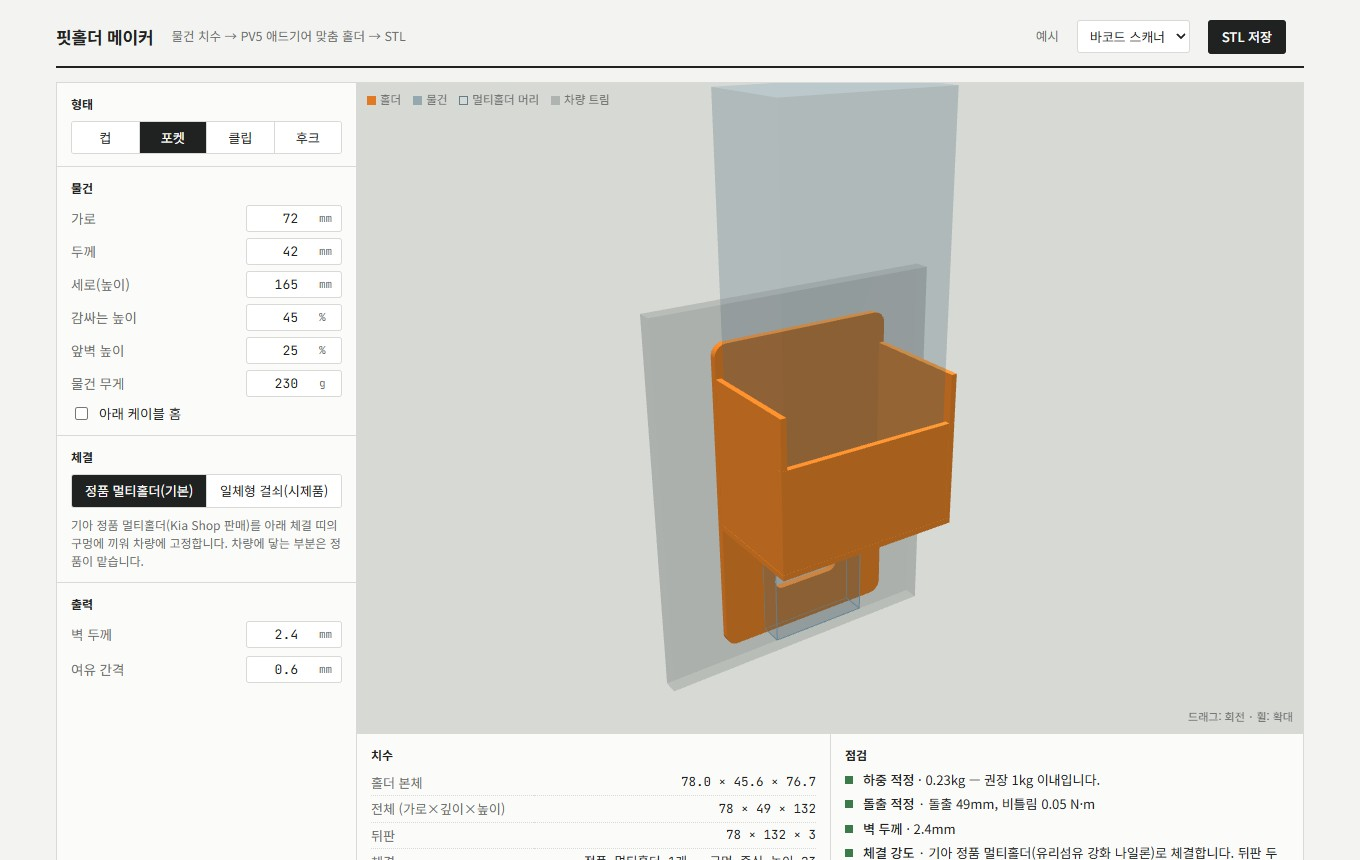
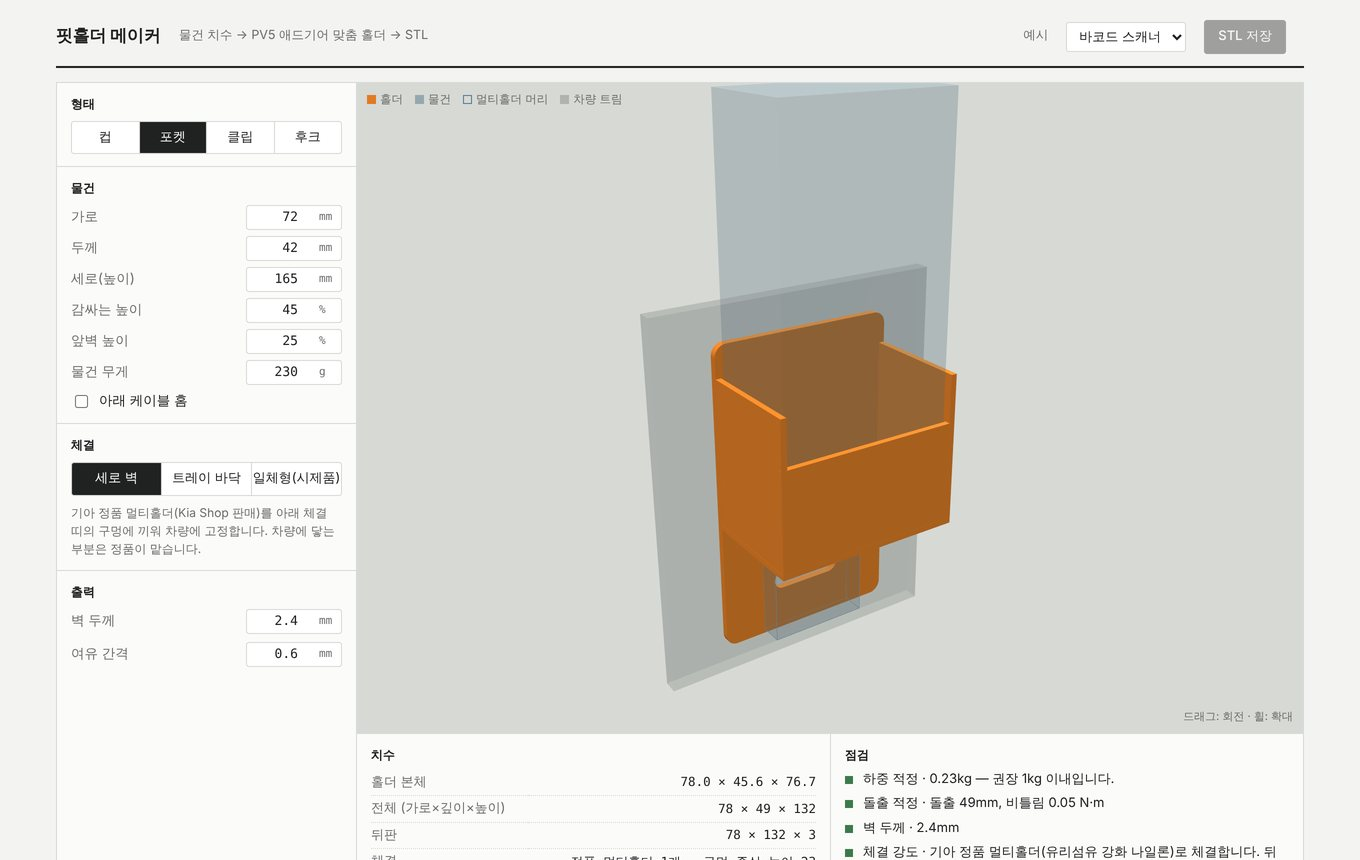
[Claude] 핏홀더 페이지: 출력물 사진 빼고 웹 도구 화면으로 교체, 기아 최종 PT 발표 사진 반영
- 대표 사진·첫 화면 카드: 최종 PT 발표 뒷모습(심사위원 보이지 않게 자름, 위치정보 제거)
- 01 네 가지 형태, 02 설계 화면, 03 점검 화면(PROTOTYPE→CHECK), 04 PT 사진
- 시제품 문구 정리, 출력물 사진 3장 삭제

Claude-Session: https://claude.ai/code/session_01TGcnNbjQXwFwAygziGWGg4

diff --git a/fitholder/index.html b/fitholder/index.html
@@ -4,7 +4,7 @@
 <meta charset="utf-8">
 <meta name="viewport" content="width=device-width, initial-scale=1, viewport-fit=cover">
 <title>핏홀더 차량용 맞춤 홀더 · Work · RECOV LAB</title>
-<meta name="description" content="물건 치수만 넣으면 차량용 맞춤 홀더가 설계되는 웹 도구와 3D 프린팅 시제품. 제5회 기아 PBV 아이디어 공모전 최종 PT.">
+<meta name="description" content="물건 치수만 넣으면 차량용 맞춤 홀더가 설계되는 웹 도구 「핏홀더 메이커」. 제5회 기아 PBV 아이디어 공모전 최종 PT.">
 <meta name="theme-color" content="#0B0B0B">
 <meta property="og:type" content="article">
 <meta property="og:title" content="핏홀더 차량용 맞춤 홀더 · RECOV LAB">
@@ -37,8 +37,8 @@
 <section class="hero detail-hero" aria-label="대표 이미지">
   <div class="slide on">
     <picture>
-      <source media="(min-width: 900px)" srcset="../img/hero_fit_d.jpg?v=1">
-      <img src="../img/hero_fit_m.jpg?v=1" alt="3D 프린팅으로 만든 흰색 차량용 맞춤 홀더 시제품들" width="1200" height="1600">
+      <source media="(min-width: 900px)" srcset="../img/hero_fit_d.jpg?v=2">
+      <img style="object-position:50% 20%" src="../img/hero_fit_m.jpg?v=2" alt="기아 PBV 아이디어 공모전 최종 PT에서 핏홀더를 발표하는 뒷모습" width="1200" height="1600">
     </picture>
   </div>
 </section>
@@ -52,15 +52,15 @@
       <p class="sub">핏홀더 · 차량용 맞춤 홀더 설계 도구</p>
     </div>
     <div class="body">
-      <p class="lead">업무용 차 안에는 업종마다 다른 물건이 실립니다. 물건의 치수와 무게만 넣으면 그 물건에 꼭 맞는 홀더가 설계되고, 바로 3D 프린팅할 수 있는 파일이 나오는 웹 도구 「핏홀더 메이커」와 시제품을 만들었습니다. 제5회 기아 PBV 아이디어 공모전에서 최종 PT까지 올랐습니다.</p>
+      <p class="lead">업무용 차 안에는 업종마다 다른 물건이 실립니다. 물건의 치수와 무게만 넣으면 그 물건에 꼭 맞는 홀더가 설계되고, 바로 3D 프린팅할 수 있는 파일이 나오는 웹 도구 「핏홀더 메이커」를 만들었습니다. 제5회 기아 PBV 아이디어 공모전에서 최종 PT까지 올랐습니다.</p>
       <dl class="specs" aria-label="작업 정보">
-        <div><dt>구성</dt><dd>웹 설계 도구 + 3D 프린팅 홀더</dd></div>
+        <div><dt>구성</dt><dd>웹 설계 도구 (브라우저에서 바로 실행)</dd></div>
         <div><dt>형태</dt><dd>컵 · 포켓 · 클립 · 후크 4종</dd></div>
-        <div><dt>체결</dt><dd>차량 정품 멀티홀더에 결합</dd></div>
+        <div><dt>체결</dt><dd>세로 벽 · 트레이 바닥 · 정품 멀티홀더 결합</dd></div>
         <div><dt>점검</dt><dd>하중(권장 1 kg) · 쏠림 · 벽 두께 자동 점검</dd></div>
-        <div><dt>출력</dt><dd>포켓형 한 개 2시간 23분 · 60 g</dd></div>
+        <div><dt>결과물</dt><dd>한 덩어리 STL + 설정 파일 내려받기</dd></div>
         <div><dt>공모</dt><dd>제5회 기아 PBV 아이디어 공모전 애프터마켓 부문 최종 PT (본선 32팀, 경쟁률 약 38:1)</dd></div>
-        <div><dt>상태</dt><dd>웹 도구 v1 · 시제품</dd></div>
+        <div><dt>상태</dt><dd>웹 도구 v1</dd></div>
       </dl>
     </div>
   </section>
@@ -72,7 +72,7 @@
         <h2>물건마다 자리가 다르다</h2>
         <p>택배, 이동 정비, 푸드트럭, 방문 돌봄처럼 업종마다 차 안에 두는 물건이 다릅니다. 차에 장착 규격은 공개돼 있어도, 체결 공차와 하중을 따져 홀더를 설계하는 일은 일반 사용자에게 어렵습니다. 기성품은 컵홀더처럼 누구나 쓰는 물건에 맞춰져 있습니다.</p>
       </div>
-      <div class="pic"><img src="../img/fit_parts.jpg?v=1" alt="출력한 홀더 부품들을 책상 위에 펼쳐 놓은 모습" width="1400" height="1050" loading="lazy"></div>
+      <div class="pic"><img src="../img/fit_types.jpg?v=2" alt="핏홀더 메이커가 설계한 컵·포켓·클립·후크 네 가지 홀더 3D 화면" width="1408" height="1058" loading="lazy"></div>
     </article>
 
     <article class="step">
@@ -81,28 +81,25 @@
         <h2>치수만 넣으면 설계된다</h2>
         <p>물건의 가로·세로·높이와 무게를 넣으면 컵·포켓·클립·후크 가운데 맞는 형태가 바로 설계됩니다. 하중과 쏠림, 벽 두께를 자동으로 점검하고, 출력할 수 있는 한 덩어리 STL 파일로 내보냅니다. 차에 닿는 체결은 정품 멀티홀더가 맡아, 차량 쪽 체결부를 따라 만들지 않습니다.</p>
       </div>
-      <div class="pic"><img src="../img/fit_tool.jpg?v=1" alt="치수를 입력하면 홀더 3D 모델이 바로 바뀌는 핏홀더 메이커 화면" width="1360" height="860" loading="lazy"></div>
+      <div class="pic"><img src="../img/fit_tool.jpg?v=2" alt="치수를 입력하면 홀더 3D 모델이 바로 바뀌는 핏홀더 메이커 화면" width="1360" height="860" loading="lazy"></div>
     </article>
 
     <article class="step">
       <div class="text">
-        <span class="no cond">03 — PROTOTYPE</span>
-        <h2>출력하고 끼워 보다</h2>
-        <p>바닥 트레이에 얹는 형과 세로 벽에 거는 형, 두 가지로 시제품을 출력했습니다. 장착 규격대로 만든 시험 슬롯에 끼워 보며 끼움새를 고쳤습니다.</p>
+        <span class="no cond">03 — CHECK</span>
+        <h2>출력하기 전에 점검한다</h2>
+        <p>설계가 바뀔 때마다 하중이 권장 1 kg 안인지, 물건이 쏠려 홀더가 비틀리지 않는지, 벽 두께가 충분한지를 화면에서 바로 알려 줍니다. 세로 벽에 거는 형과 트레이 바닥에 얹는 형을 고를 수 있어, 같은 물건도 차 안 자리에 맞춰 바꿔 설계합니다.</p>
       </div>
-      <div class="pair">
-        <img src="../img/fit_floor.jpg?v=1" alt="바닥에 얹는 형 홀더 시제품" width="1080" height="1280" loading="lazy">
-        <img src="../img/fit_wall.jpg?v=1" alt="벽에 거는 형 홀더 시제품" width="1080" height="1280" loading="lazy">
-      </div>
+      <div class="pic"><img src="../img/fit_check.jpg?v=2" alt="트레이 바닥형 스마트폰 홀더와 하중·쏠림·벽 두께 점검 결과가 함께 보이는 화면" width="1360" height="860" loading="lazy"></div>
     </article>
 
     <article class="step">
       <div class="text">
         <span class="no cond">04 — PITCH</span>
         <h2>최종 PT에 서다</h2>
-        <p>제5회 기아 PBV 아이디어 공모전 애프터마켓 부문에 냈습니다. 약 38:1의 경쟁을 거쳐 본선 32팀에 들었고, 2026년 11월 최종 PT에서 웹 도구와 시제품, 출력 대행으로 이어지는 사업 구조를 발표했습니다.</p>
+        <p>제5회 기아 PBV 아이디어 공모전 애프터마켓 부문에 냈습니다. 약 38:1의 경쟁을 거쳐 본선 32팀에 들었고, 2026년 11월 최종 PT에서 웹 도구와, 3D 프린터를 가진 판매자가 출력·배송을 맡는 플랫폼 구조를 발표했습니다.</p>
       </div>
-      <div class="pic"><img src="../img/fit_case.jpg?v=1" alt="여러 형태의 홀더 시제품" width="1080" height="812" loading="lazy"></div>
+      <div class="pic"><img src="../img/fit_pitch.jpg?v=2" alt="기아 PBV 아이디어 공모전 최종 PT에서 화면 앞에 서서 발표하는 모습" width="1080" height="810" loading="lazy"></div>
     </article>
   </section>
 

diff --git a/index.html b/index.html
@@ -127,10 +127,10 @@
         <div class="text">
           <h2 class="cond">FIT HOLDER</h2>
           <p class="sub">핏홀더 · 차량용 맞춤 홀더 설계 도구</p>
-          <p class="desc">물건의 치수와 무게만 넣으면 맞춤 홀더가 설계되고 3D 프린팅 파일이 나오는 웹 도구와 시제품을 만들었습니다. 하중·쏠림·벽 두께를 자동으로 점검합니다. 제5회 기아 PBV 아이디어 공모전 최종 PT에 올랐습니다.</p>
+          <p class="desc">물건의 치수와 무게만 넣으면 맞춤 홀더가 설계되고 3D 프린팅 파일이 나오는 웹 도구를 만들었습니다. 하중·쏠림·벽 두께를 자동으로 점검합니다. 제5회 기아 PBV 아이디어 공모전 최종 PT에 올랐습니다.</p>
           <a class="more" href="fitholder/">→ 자세히 보기</a>
         </div>
-        <div class="pic"><img src="img/fit_case.jpg?v=1" alt="3D 프린팅으로 만든 흰색 차량용 맞춤 홀더 시제품들" width="1080" height="812" loading="lazy"></div>
+        <div class="pic"><img src="img/fit_case.jpg?v=2" alt="기아 PBV 아이디어 공모전 최종 PT에서 핏홀더를 발표하는 뒷모습" width="1080" height="812" loading="lazy"></div>
       </div>
     </section>
   </div>
